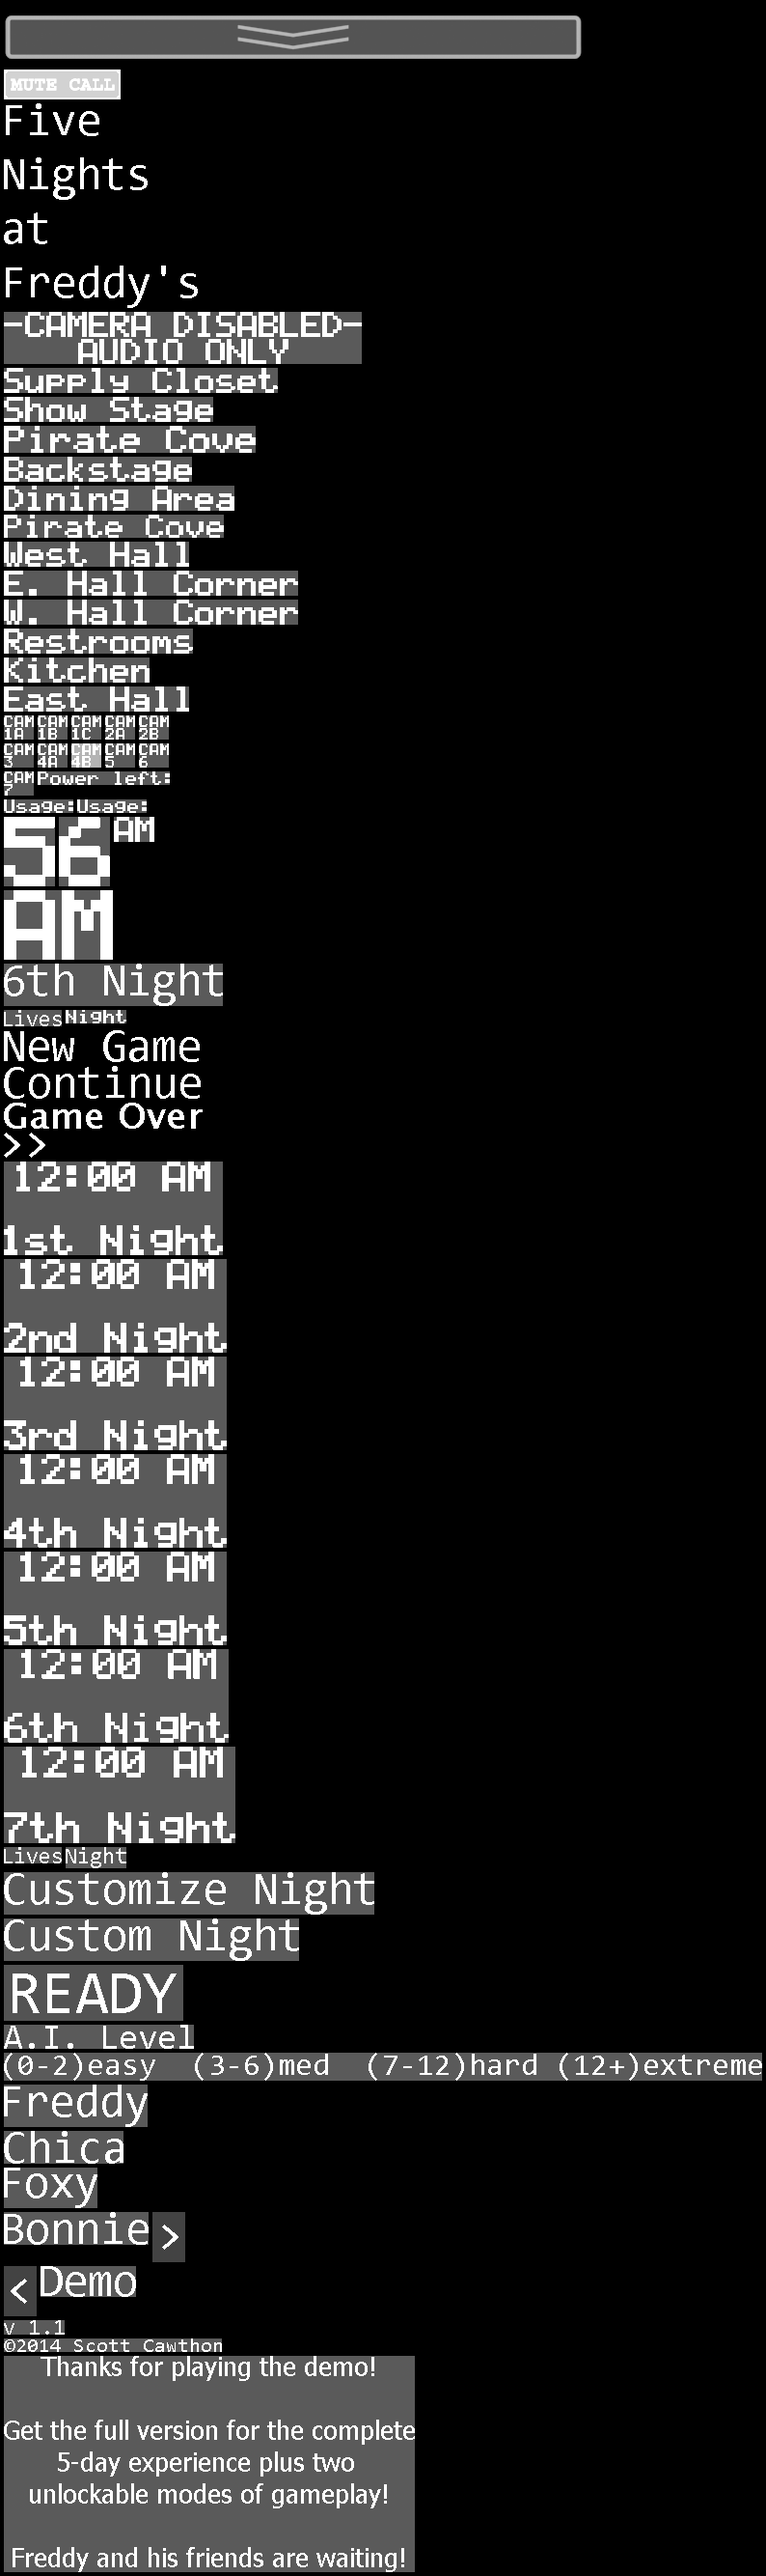
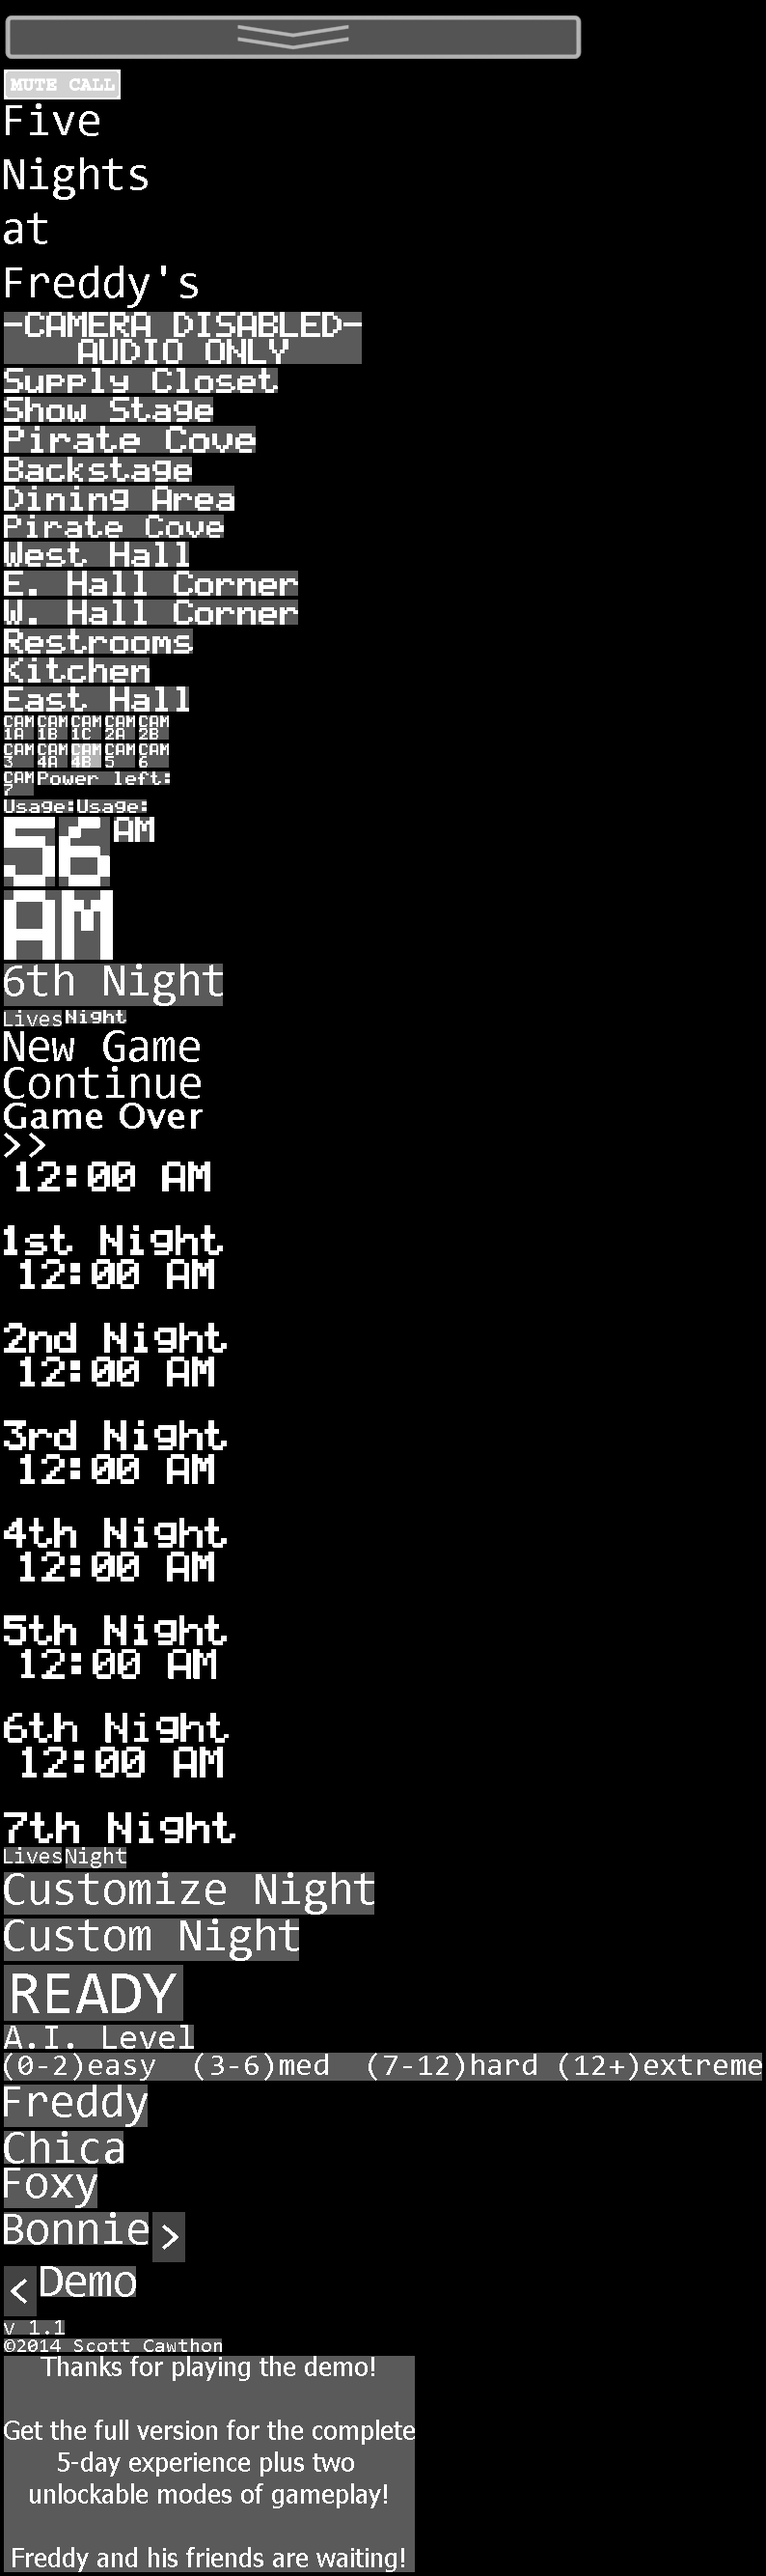
컨텐츠 Intro, Daily 추가

Changed region(s): [[0.0, 0.4355, 0.3325, 0.7155]]

diff --git a/Direct2D/Contents/TitleMenu.cpp b/Direct2D/Contents/TitleMenu.cpp
@@ -13,6 +13,7 @@ ATitleMenu::ATitleMenu()
 	TitleBackgroundRenderer->SetSprite("IntroEndings.png", 0);
 	//TitleBackgroundRenderer->CreateAnimation("FaceChange", "IntroEndings.png", 0.1f, true, 0, 0);
 	//TitleBackgroundRenderer->ChangeAnimation("FaceChange");
+	TitleBackgroundRenderer->SetOrder(1);
 
 	NoiseRenderer = CreateDefaultSubObject<USpriteRenderer>("Renderer");
 	NoiseRenderer->SetupAttachment(TitleRoot);
@@ -20,6 +21,7 @@ ATitleMenu::ATitleMenu()
 	NoiseRenderer->SetMaterial("OverlayMaterial");
 	NoiseRenderer->CreateAnimation("Noise", "static.png", 0.1f, true, 0, 7);
 	NoiseRenderer->ChangeAnimation("Noise");
+	NoiseRenderer->SetOrder(2);
 
 
 	CameraEffectsRenderer = CreateDefaultSubObject<USpriteRenderer>("Renderer");
@@ -28,6 +30,7 @@ ATitleMenu::ATitleMenu()
 	CameraEffectsRenderer->SetMaterial("OverlayMaterial");
 	CameraEffectsRenderer->CreateAnimation("CameraEffects", "CameraEffects.png", 0.1f, true, 0, 15);
 	CameraEffectsRenderer->ChangeAnimation("CameraEffects");
+	//CameraEffectsRenderer->SetOrder(2);
 
 	TitleNameRenderer = CreateDefaultSubObject<USpriteRenderer>("Renderer");
 	TitleNameRenderer->SetupAttachment(TitleRoot);
@@ -35,7 +38,7 @@ ATitleMenu::ATitleMenu()
 	TitleNameRenderer->SetAutoSize(1.0f, true);
 	TitleNameRenderer->SetSprite("GameTitle.png", 0);
 	TitleNameRenderer->AddPosition(FVector(-350.0f, -20.0f, 100.0f));
-
+	TitleNameRenderer->SetOrder(3);
 
 
 	SetRoot(TitleRoot);
@@ -51,10 +54,6 @@ void ATitleMenu::BeginPlay()
 {
 	Super::BeginPlay();
 
-	TitleBackgroundRenderer->SetOrder(1);
-	NoiseRenderer->SetOrder(2);
-	//CameraEffectsRenderer->SetOrder(2);
-	TitleNameRenderer->SetOrder(3);
 
 }
 

diff --git a/Direct2D/Contents/GameDay.cpp b/Direct2D/Contents/GameDay.cpp
@@ -1,0 +1,48 @@
+#include "PreCompile.h"
+#include "GameDay.h"
+#include <EngineCore/Renderer.h>
+#include <EngineCore/DefaultSceneComponent.h>
+
+AGameDay::AGameDay()
+{
+	UDefaultSceneComponent* DayRoot = CreateDefaultSubObject<UDefaultSceneComponent>("Renderer");
+
+	NewGameIntroRenderer = CreateDefaultSubObject<USpriteRenderer>("Render");
+	NewGameIntroRenderer->SetupAttachment(DayRoot);
+	NewGameIntroRenderer->SetSprite("IntroEndings.png", 4);
+	NewGameIntroRenderer->SetScale(FVector(1280.0f, 720.0f, 100.0f));
+	NewGameIntroRenderer->SetOrder(10);
+
+	DayBackgroundRenderer = CreateDefaultSubObject<USpriteRenderer>("Render");
+	DayBackgroundRenderer->SetupAttachment(DayRoot);
+	DayBackgroundRenderer->SetSprite("DayBackground.png", 0);
+	DayBackgroundRenderer->SetScale(FVector(1280.0f, 720.0f, 100.0f));
+	DayBackgroundRenderer->SetOrder(9);
+
+	DailyRenderer = CreateDefaultSubObject<USpriteRenderer>("Render");
+	DailyRenderer->SetupAttachment(DayRoot);
+	DailyRenderer->SetSprite("Day.png", 0);
+	DailyRenderer->SetAutoSize(1.0f, true);
+	DailyRenderer->SetOrder(10);
+	DailyRenderer->SetActive(false);
+
+	SetRoot(DayRoot);
+}
+
+AGameDay::~AGameDay()
+{
+}
+
+void AGameDay::BeginPlay()
+{
+	Super::BeginPlay();
+	DelayCallBack(1.0f, [this]() { NewGameIntroRenderer->SetActive(false), DailyRenderer->SetActive(true); });
+	DelayCallBack(2.0f, [this]() { DailyRenderer->SetActive(false), DayBackgroundRenderer->SetActive(false); });
+
+}
+
+void AGameDay::Tick(float _DeltaTime)
+{
+	Super::Tick(_DeltaTime);
+
+}

diff --git a/Direct2D/Contents/Stage.cpp b/Direct2D/Contents/Stage.cpp
@@ -2,11 +2,28 @@
 #include "Stage.h"
 #include <EngineCore/Renderer.h>
 #include <EngineCore/EngineDebugMsgWindow.h>
+#include <EngineCore/DefaultSceneComponent.h>
 
 AStage::AStage() 
 {
+	UDefaultSceneComponent* StageRoot = CreateDefaultSubObject<UDefaultSceneComponent>("Renderer");
+
 	TheOfficeRenderer = CreateDefaultSubObject<USpriteRenderer>("Render");
-	SetRoot(TheOfficeRenderer);
+	TheOfficeRenderer->SetupAttachment(StageRoot);
+	TheOfficeRenderer->SetSprite("TheOffice.png");
+	TheOfficeRenderer->SetScale(FVector(1280.0f, 720.0f, 100.0f));
+	TheOfficeRenderer->SetOrder(1);
+
+	FanRenderer = CreateDefaultSubObject<USpriteRenderer>("Render");
+	FanRenderer->SetupAttachment(StageRoot);
+	FanRenderer->SetSprite("Fan.png");
+	FanRenderer->CreateAnimation("FanRotation", "Fan.png", 0.01f, true, 0, 2);
+	FanRenderer->ChangeAnimation("FanRotation");
+	FanRenderer->SetScale(FVector(110.0f, 200.0f, 100.0f));
+	FanRenderer->AddPosition(FVector(38.5f, -41.0f, 100.0f));
+	FanRenderer->SetOrder(2);
+
+	SetRoot(StageRoot);
 }
 
 AStage::~AStage()
@@ -17,8 +34,7 @@ void AStage::BeginPlay()
 {
 	Super::BeginPlay();
 
-	TheOfficeRenderer->SetSprite("TheOffice.png");
-	TheOfficeRenderer->SetOrder(1);
+
 
 }
 

diff --git a/Direct2D/Contents/GameDay.h b/Direct2D/Contents/GameDay.h
@@ -1,0 +1,31 @@
+#pragma once
+#include <EngineCore/Actor.h>
+#include <EngineCore/SpriteRenderer.h>
+
+class AGameDay : public AActor
+{
+	GENERATED_BODY(AActor)
+
+public:
+	// constrcuter destructer
+	AGameDay();
+	~AGameDay();
+
+	// delete Function
+	AGameDay(const AGameDay& _Other) = delete;
+	AGameDay(AGameDay&& _Other) noexcept = delete;
+	AGameDay& operator=(const AGameDay& _Other) = delete;
+	AGameDay& operator=(AGameDay&& _Other) noexcept = delete;
+
+protected:
+	void BeginPlay() override;
+	void Tick(float _DeltaTime) override;
+
+private:
+	USpriteRenderer* NewGameIntroRenderer = nullptr;
+	USpriteRenderer* DayBackgroundRenderer = nullptr;
+	USpriteRenderer* DailyRenderer = nullptr;
+
+
+};
+

diff --git a/Direct2D/Contents/PlayGameMode.cpp b/Direct2D/Contents/PlayGameMode.cpp
@@ -1,7 +1,7 @@
 #include "PreCompile.h"
 #include "PlayGameMode.h"
 #include "Stage.h"
-#include "Fan.h"
+#include "GameDay.h"
 #include <EngineCore/Camera.h>
 
 
@@ -22,13 +22,10 @@ void APlayGameMode::BeginPlay()
 
 	{
 		std::shared_ptr<AStage> Lobby = GetWorld()->SpawnActor<AStage>("Stage");
-		Lobby->SetActorScale3D(FVector(1280.0f, 720.0f, 100.0f));
 	}
 
 	{
-		std::shared_ptr<AFan> Fan = GetWorld()->SpawnActor<AFan>("Fan");
-		Fan->AddActorScale3D(FVector(110.0f, 200.0f, 100.0f));
-		Fan->AddActorLocation(FVector(38.5f, -41.0f, 100.0f));
+		std::shared_ptr<AGameDay> GameDay = GetWorld()->SpawnActor<AGameDay>("GameDay");
 	}
 
 	

diff --git a/Direct2D/Contents/Core.cpp b/Direct2D/Contents/Core.cpp
@@ -63,6 +63,10 @@ void UCore::Initialize()
 			UEngineSprite::CreateCutting("Fan.png", 3, 1);
 		}
 
+		{
+			UEngineSprite::CreateCutting("Day.png", 1, 6);
+		}
+
 	}
 
 
@@ -85,7 +89,7 @@ void UCore::Initialize()
 
 	GEngine->CreateLevel<ATitleGameMode>("TitleLevel");
 	GEngine->CreateLevel<APlayGameMode>("PlayLevel");
-	GEngine->ChangeLevel("TitleLevel");
+	GEngine->ChangeLevel("PlayLevel");
 
 
 }

diff --git a/Direct2D/Contents/TitleGameMode.cpp b/Direct2D/Contents/TitleGameMode.cpp
@@ -25,7 +25,7 @@ void ATitleGameMode::BeginPlay()
 	}
 
 	{
-		std::shared_ptr<ATitleSelect> TitleNoise = GetWorld()->SpawnActor<ATitleSelect>("TitleSelect");
+		std::shared_ptr<ATitleSelect> TitleSelect = GetWorld()->SpawnActor<ATitleSelect>("TitleSelect");
 	}
 }
 

diff --git a/Direct2D/Contents/TitleSelect.cpp b/Direct2D/Contents/TitleSelect.cpp
@@ -10,6 +10,8 @@ ATitleSelect::ATitleSelect()
 	TitleSelectRenderer->AddPosition(FVector(-500.0f, -70.0f, 100.0f));
 
 	SetRoot(TitleSelectRenderer);
+
+	InputOn();
 }
 
 ATitleSelect::~ATitleSelect()

diff --git a/Direct2D/Contents/Stage.h b/Direct2D/Contents/Stage.h
@@ -24,6 +24,7 @@ protected:
 
 private:
 	USpriteRenderer* TheOfficeRenderer = nullptr;
+	USpriteRenderer* FanRenderer = nullptr;
 
 	void DebugMessageFunction();
 };
